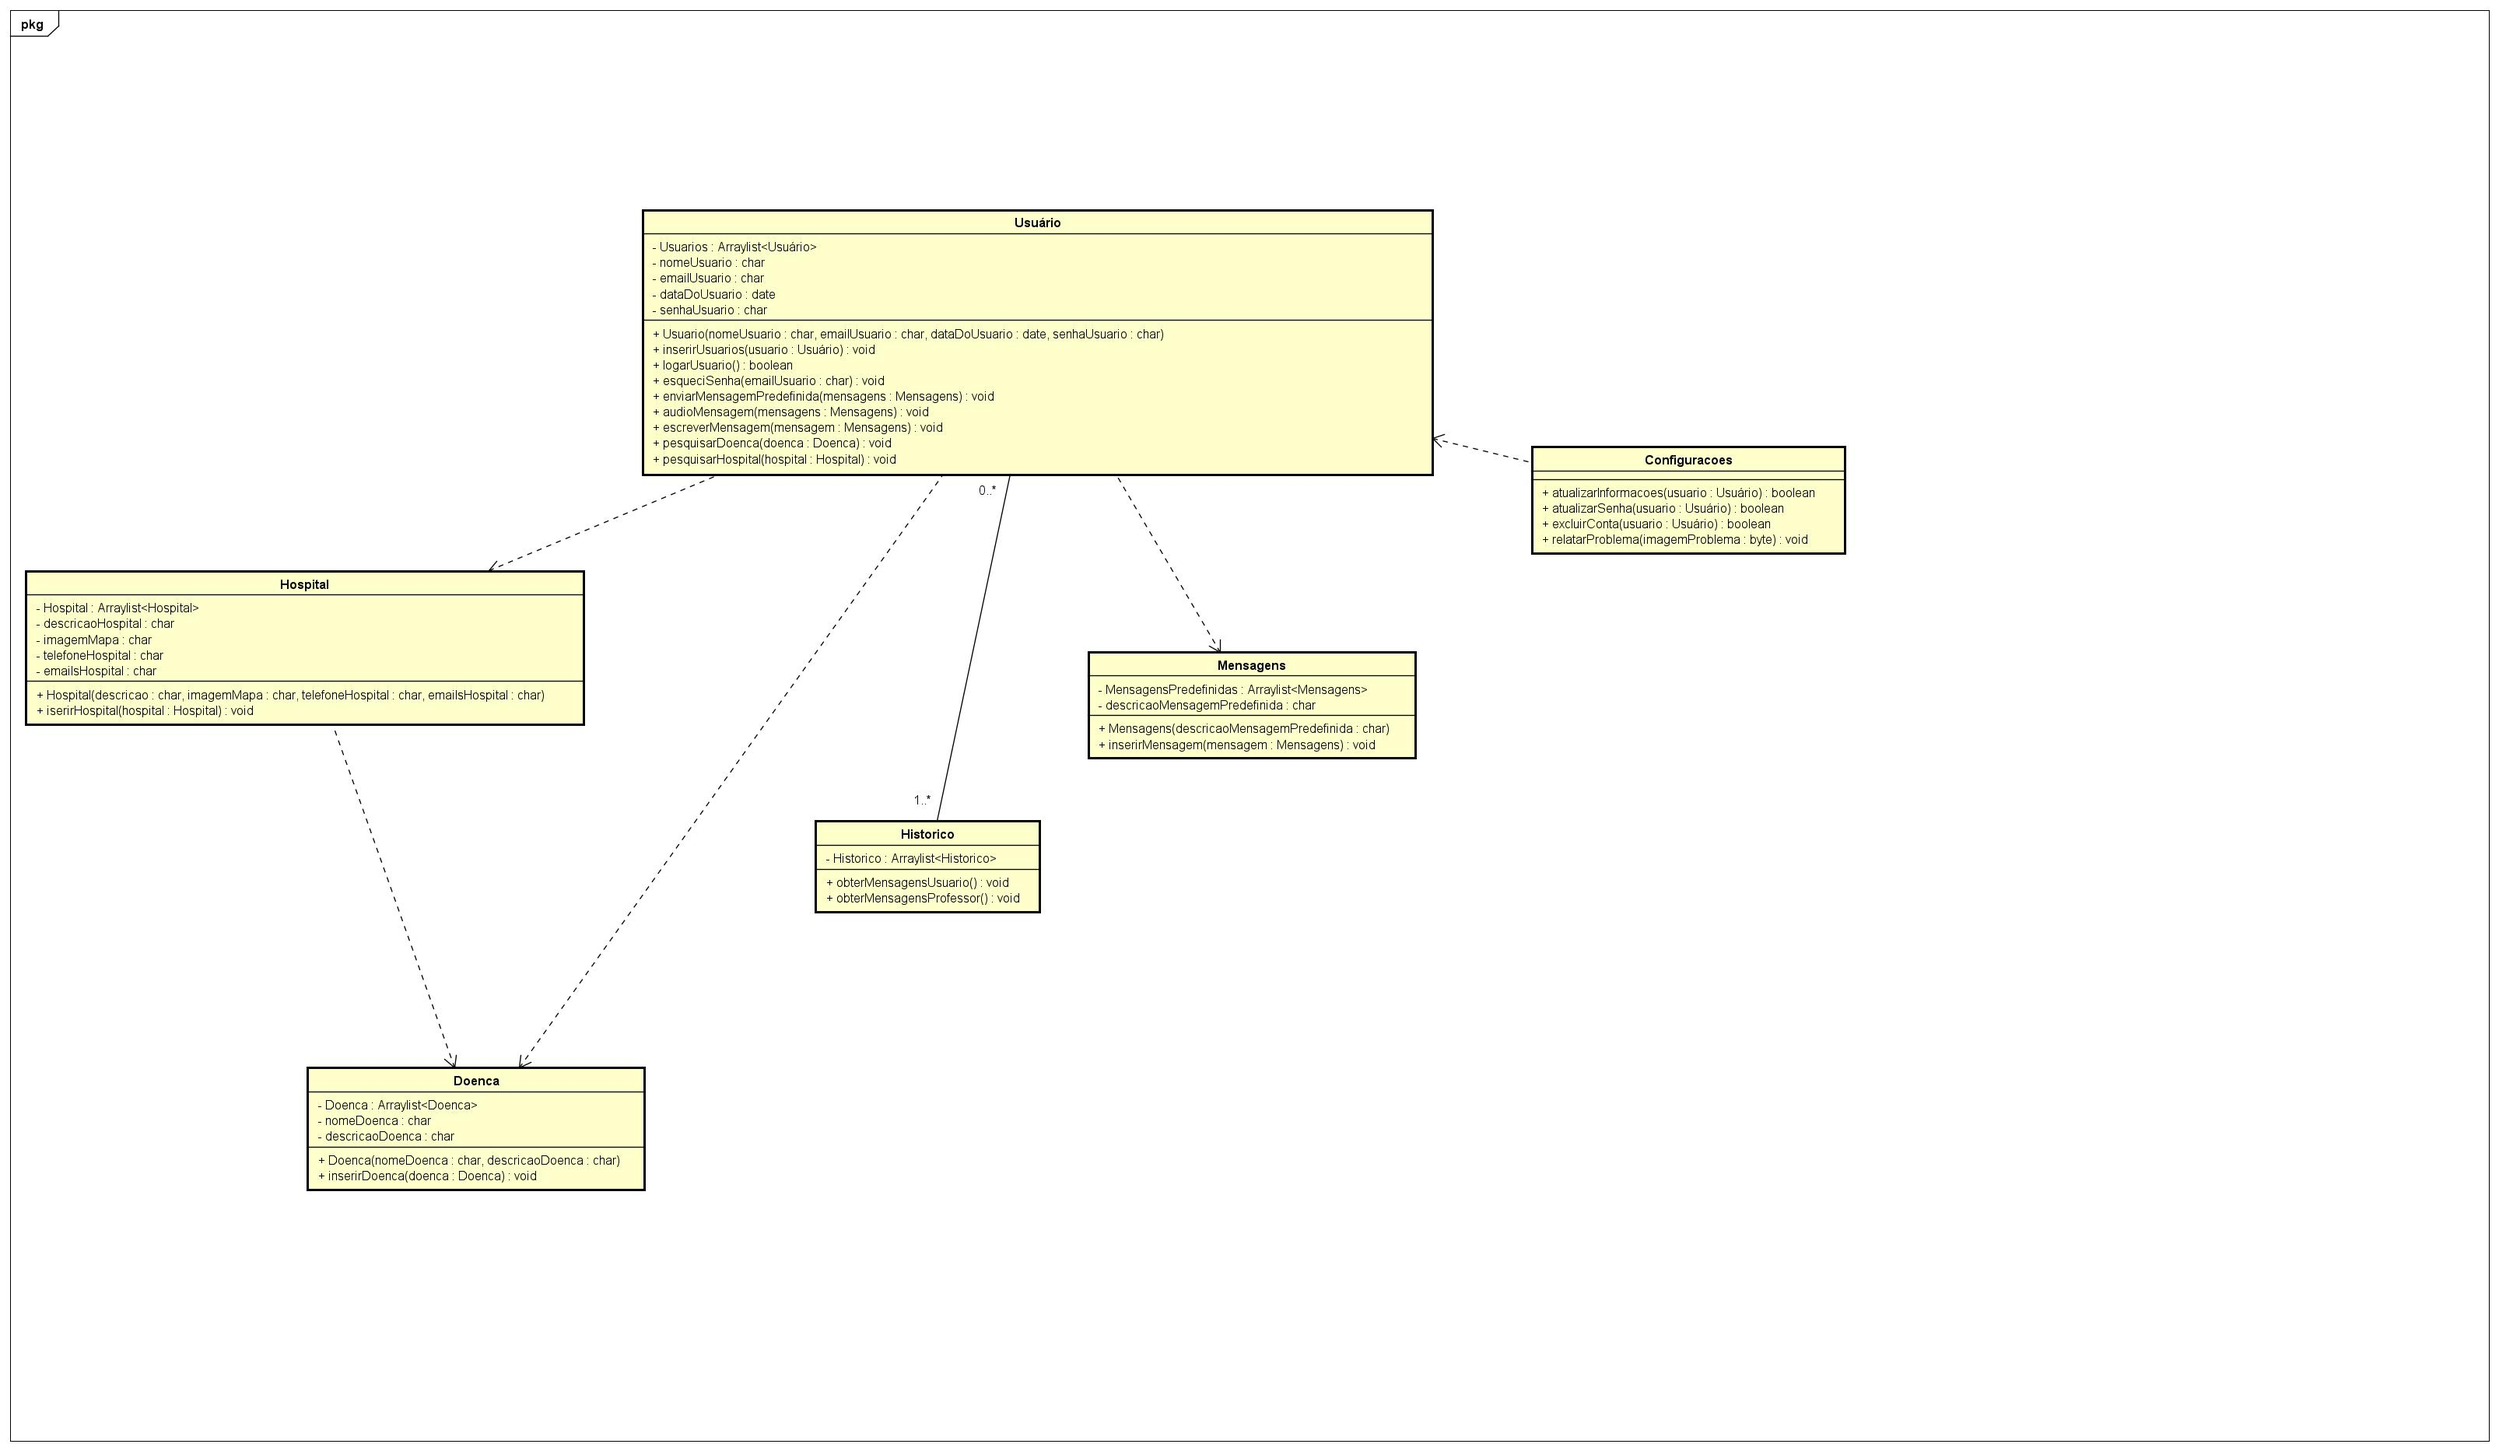
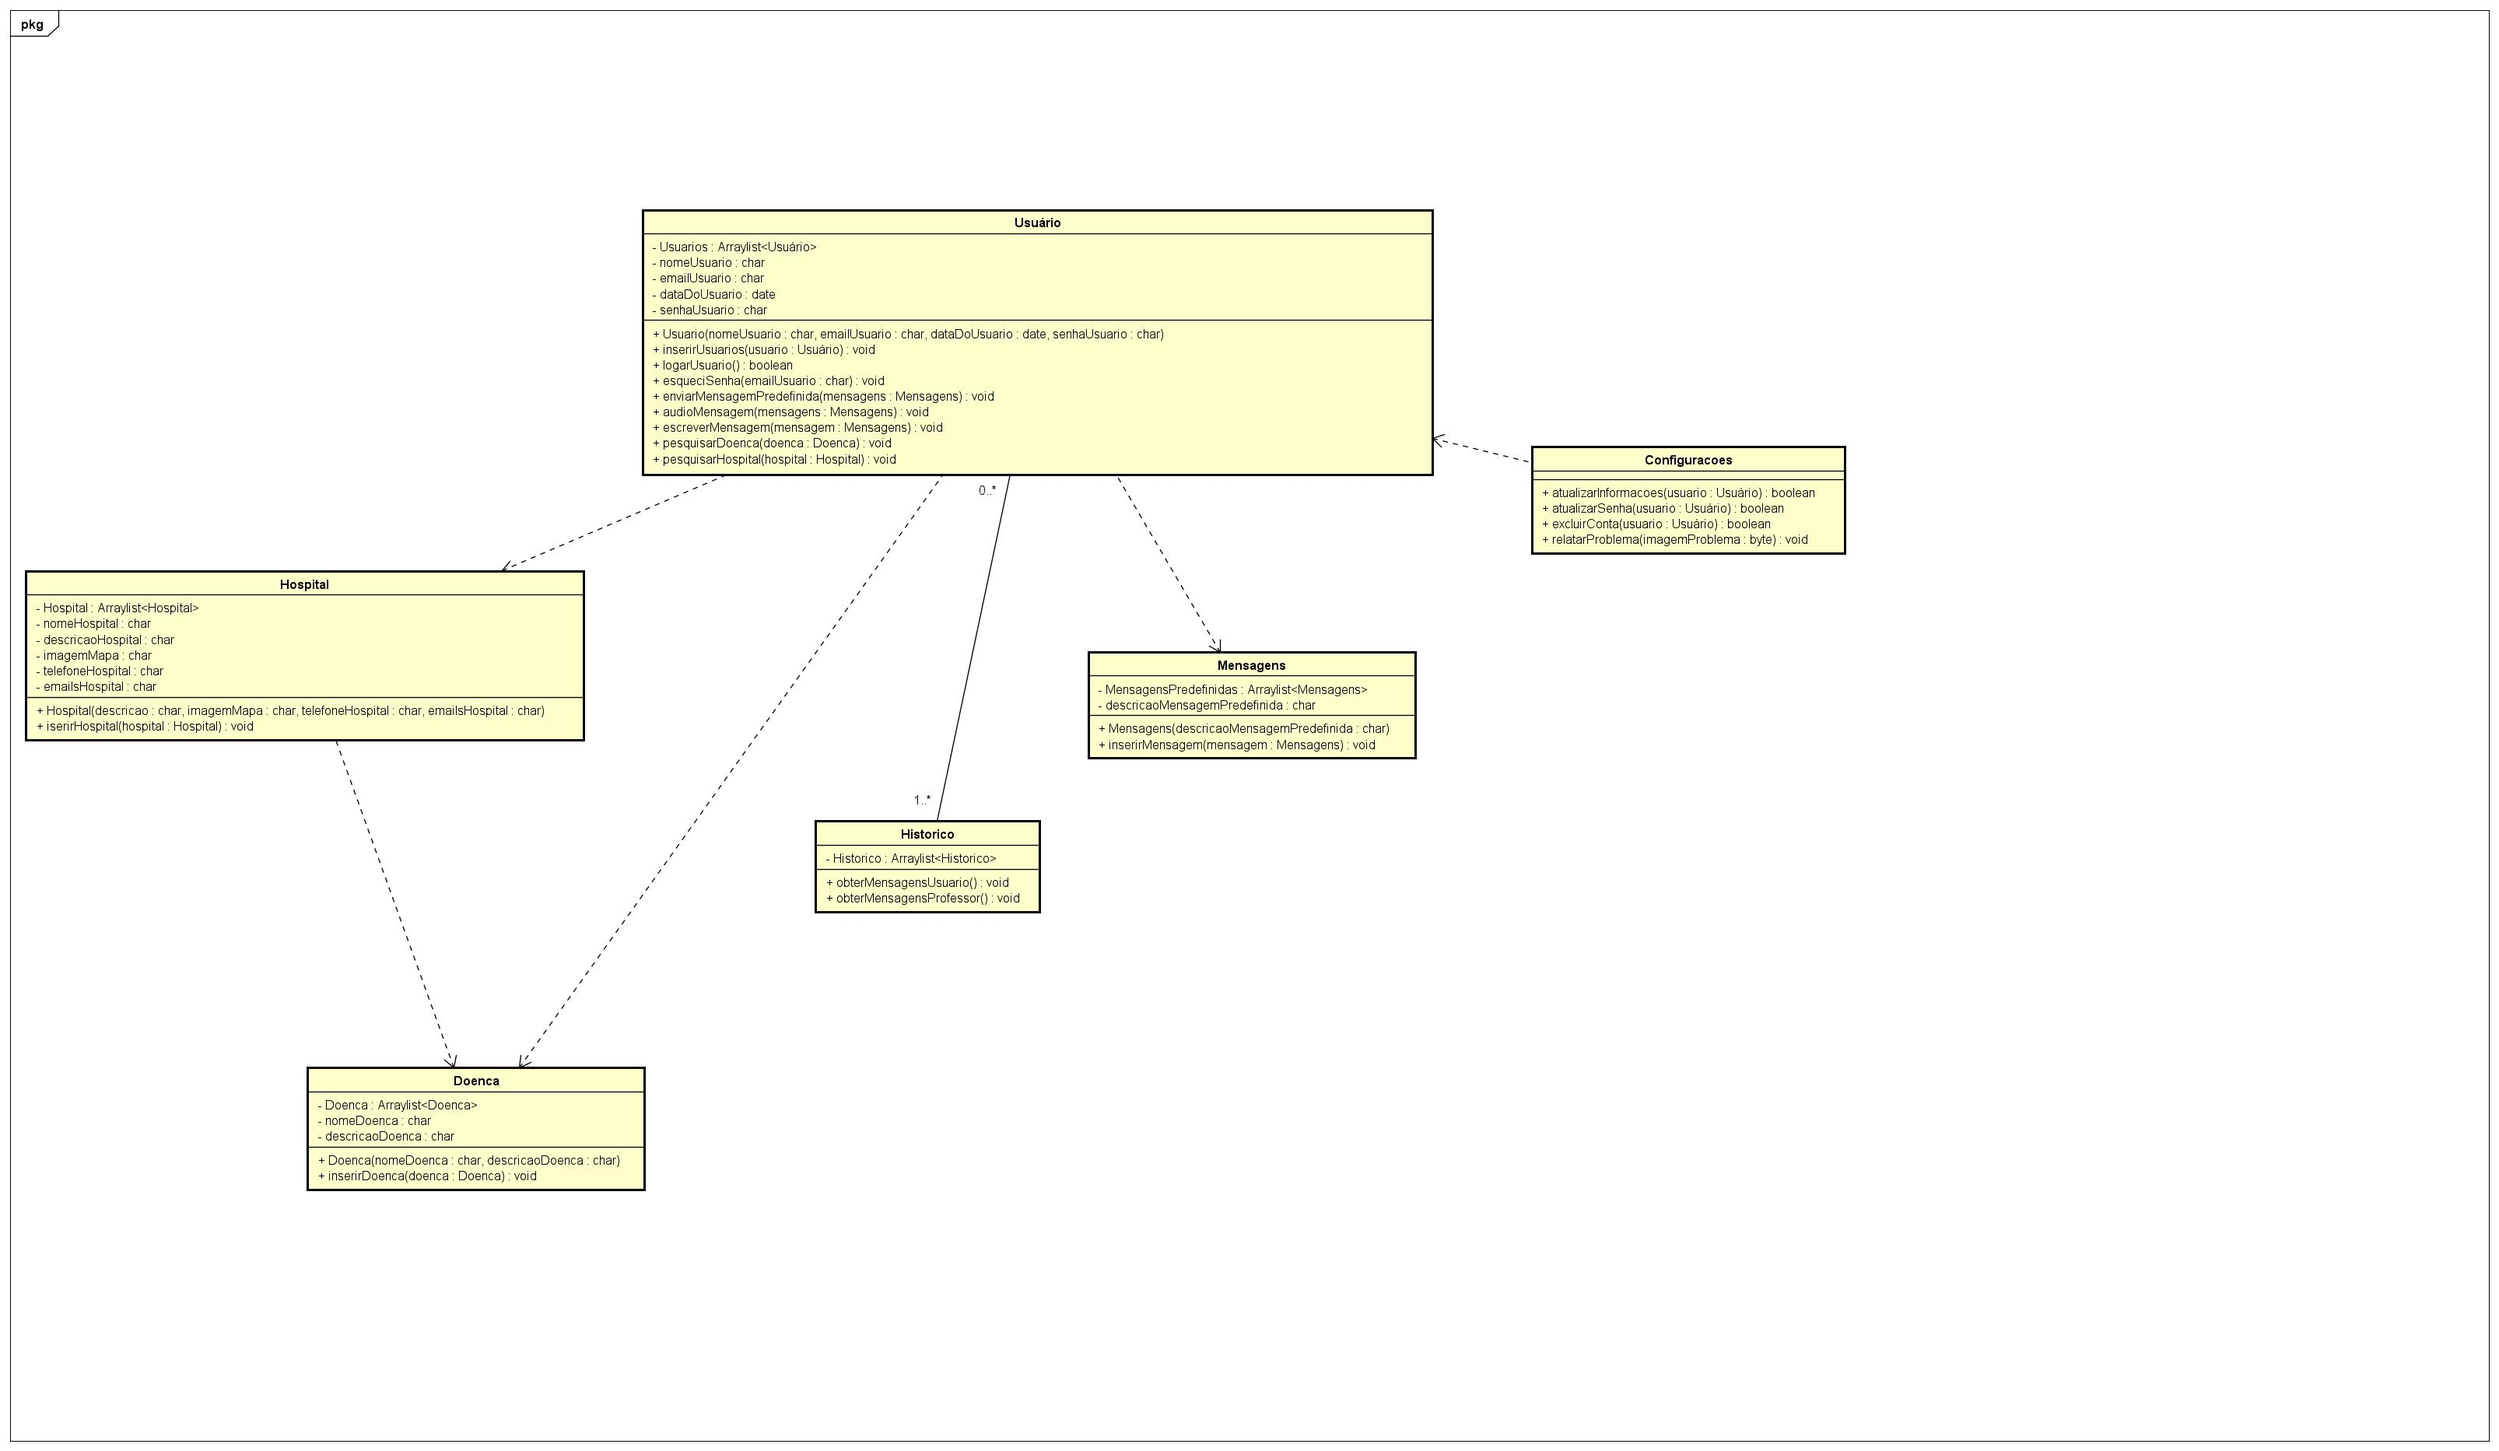
Att 29/05/21

Changed region(s): [[0.0, 0.4043, 0.2491, 0.5287]]

diff --git a/MaterialDoProj/Classe em Java JavaDoc/Diseasy/src/Hospital/Hospital.java b/MaterialDoProj/Classe em Java JavaDoc/Diseasy/src/Hospital/Hospital.java
@@ -3,39 +3,43 @@
 	 *data 14/05/21 
 	 * 
 	 */
-package Hospital;
-import java.util.ArrayList;
-import java.util.List;
-
-public class Hospital {
-
-	private String descricaoHospital;
-
-	private String imagemMapa;
-
-	private String telefoneHospital;
-
-	private String emailsHospital;
-
-	private List<Hospital> hospitais;
-
-	public Hospital(String descricaoHospital, String imagemMapa, String telefoneHospital, String emailsHospital) {
-		
-		this.descricaoHospital = descricaoHospital;
-		this.imagemMapa = imagemMapa;
-		this.telefoneHospital = telefoneHospital;
-		this.emailsHospital = emailsHospital;
-		this.hospitais = new ArrayList<>();
-		
+	package Hospital;
+	import java.util.ArrayList;
+	import java.util.List;
+	
+	public class Hospital {
+	
+		private String nomeHospital;
+	
+		private String descricaoHospital;
+	
+		private String imagemMapa;
+	
+		private String telefoneHospital;
+	
+		private String emailsHospital;
+	
+		private List<Hospital> hospitais;
+	
+		public Hospital(String nomeHospital, String descricaoHospital, String imagemMapa, String telefoneHospital, String emailsHospital) {
+			
+			this.nomeHospital = nomeHospital;
+			this.descricaoHospital = descricaoHospital;
+			this.imagemMapa = imagemMapa;
+			this.telefoneHospital = telefoneHospital;
+			this.emailsHospital = emailsHospital;
+			this.hospitais = new ArrayList<>();
+			
+		}
+	
+	
+		/**
+		 * Este metodo ira inserir hospital no banco de dados
+		 * @param hospital
+		 */
+		public void iserirHospital(Hospital hospital) {
+	
+		}
+	
 	}
-
-
-	/**
-	 * Este metodo ira inserir hospital no banco de dados
-	 * @param hospital
-	 */
-	public void iserirHospital(Hospital hospital) {
-
-	}
-
-}
+	

diff --git a/MaterialDoProj/Diseasy Teste das classes/Diseasy/src/Hospital/Hospital.java b/MaterialDoProj/Diseasy Teste das classes/Diseasy/src/Hospital/Hospital.java
@@ -8,7 +8,9 @@ import java.util.ArrayList;
 import java.util.List;
 
 public class Hospital {
-
+	
+	private String nomeHospital;
+	
 	private String descricaoHospital;
 
 	private String imagemMapa;
@@ -19,8 +21,9 @@ public class Hospital {
 
 	private List<Hospital> hospitais;
 
-	public Hospital(String descricaoHospital, String imagemMapa, String telefoneHospital, String emailsHospital) {
+	public Hospital(String nomeHospital, String descricaoHospital, String imagemMapa, String telefoneHospital, String emailsHospital) {
 		
+		this.nomeHospital = nomeHospital;
 		this.descricaoHospital = descricaoHospital;
 		this.imagemMapa = imagemMapa;
 		this.telefoneHospital = telefoneHospital;
@@ -28,7 +31,14 @@ public class Hospital {
 		this.hospitais = new ArrayList<>();
 		
 	}
-
+	
+	public String getNomeHospital() {
+		return nomeHospital;
+	}
+	
+	public void setNomeHospital(String nomeHospital) {
+		this.nomeHospital = nomeHospital;
+	}
 
 	public String getDescricaoHospital() {
 		return descricaoHospital;

diff --git a/MaterialDoProj/Diseasy Teste das classes/Diseasy/src/Doenca/Doenca.java b/MaterialDoProj/Diseasy Teste das classes/Diseasy/src/Doenca/Doenca.java
@@ -48,8 +48,7 @@ public class Doenca {
 
 	@Override
 	public String toString() {
-		return "Doenca [nomeDoenca=" + nomeDoenca + ", descricaoDoenca=" + descricaoDoenca + ", doencas=" + doencas
-				+ "]";
+		return "Doenca [nomeDoenca=" + nomeDoenca + ", descricaoDoenca=" + descricaoDoenca +"]";
 	}
 
 	/**
